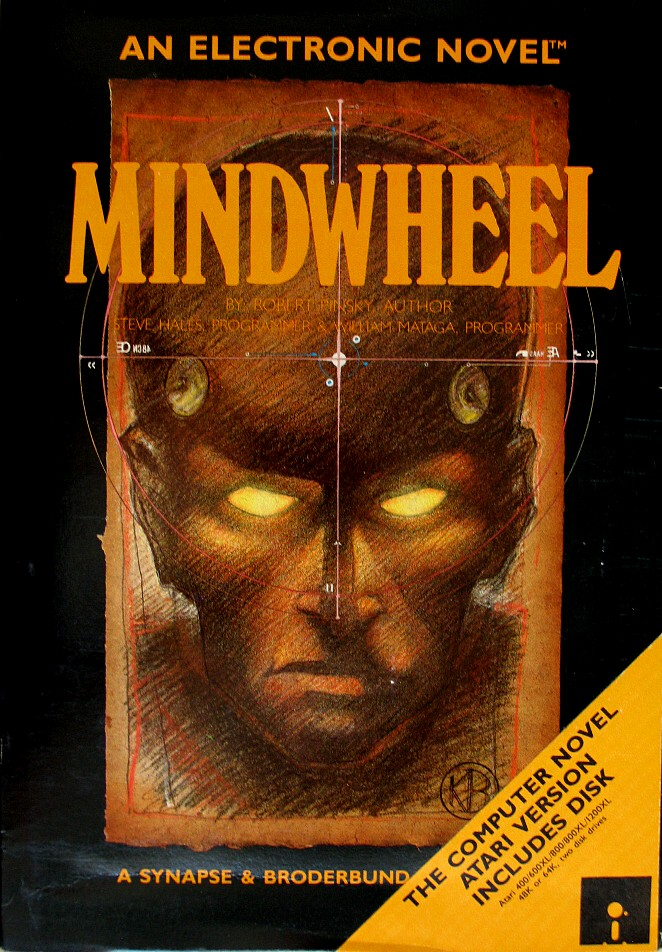
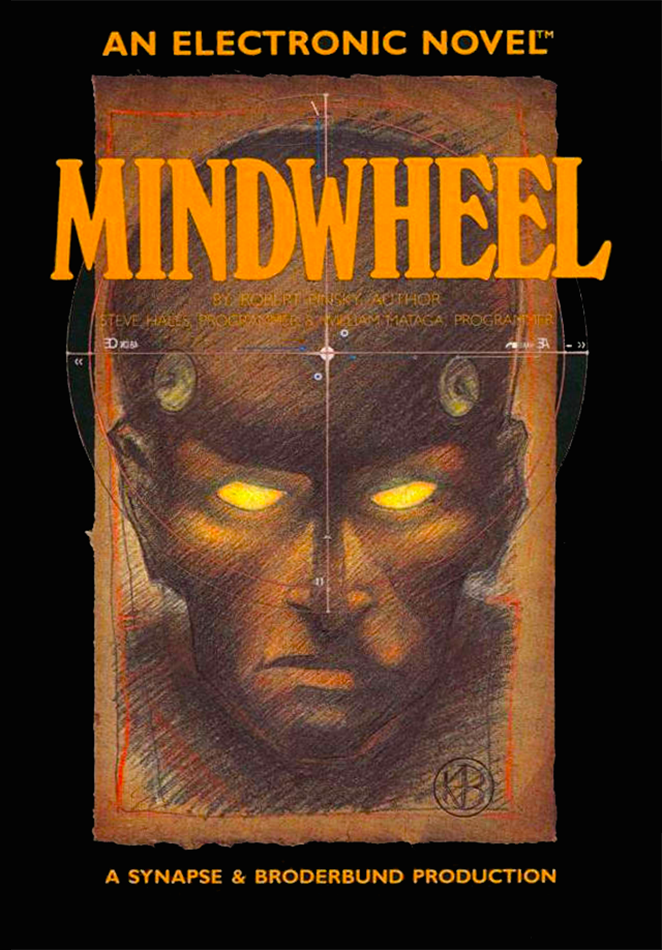
Better background image, text formatting

diff --git a/index.html b/index.html
@@ -149,11 +149,11 @@
     <!-- <textarea id="output" rows="8"></textarea> -->
     
 	  <footer>
-	  	MINDWHEEL Secuity Control word can by bypassed by 
-		just pressing RETURN, to continue.
+MINDWHEEL Secuity Control word can be
+bypassed by just pressing RETURN, to continue.
 
-		To use a " use the shift 2 key.
-		Game cannot save progress.
+To use a " use the shift 2 key.
+Game cannot save progress.
 	  <script>
 	    (function(i,s,o,g,r,a,m){i['GoogleAnalyticsObject']=r;i[r]=i[r]||function(){
 	    (i[r].q=i[r].q||[]).push(arguments)},i[r].l=1*new Date();a=s.createElement(o),
